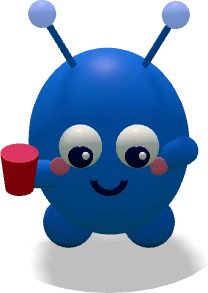
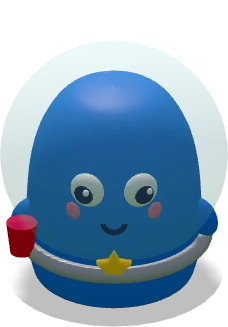
Aliens as a character collection: same silhouette, different costume each
Following the user's reference: every alien shares the same gumdrop body,
stubby feet and arms and a party cup, and each color is a different
character (antennae, astronaut, birthday, DJ, pirate, cyclops, king,
wizard). All are cropped with one common frame so bodies keep the same
size. Also fixes the upside-down smiles and makes the duel "VS" readable
on its light tile.

Claude-Session: https://claude.ai/code/session_01EHHKZnjyesYxRjuSqf66QR

diff --git a/scripts/board3d/scene.ts b/scripts/board3d/scene.ts
@@ -671,62 +671,287 @@ export function renderBoard(scale: number) {
   return r.domElement.toDataURL("image/png");
 }
 
-/** Marciano de fiesta: mismo estilo, misma luz y misma cámara que el tablero. */
-function alien(color: string) {
+// --- Marcianos ------------------------------------------------------------------------
+// Todos comparten la misma silueta (cuerpo de gominola: ancho abajo, redondo arriba, patitas
+// y bracitos cortos) y su vaso de fiesta; cada uno se distingue por su "disfraz", como una
+// colección de muñecos. Se construyen mirando a +z y luego se giran hacia la cámara.
+
+/** Perfil del cuerpo (radio, altura) para el torno. */
+const BODY_PROFILE = new THREE.SplineCurve(
+  [[0, 0], [0.28, 0], [0.34, 0.06], [0.36, 0.24], [0.35, 0.5], [0.3, 0.7], [0.19, 0.85], [0, 0.89]].map(([x, y]) => new THREE.Vector2(x, y)),
+).getPoints(48);
+// alturas de la cara y de la coronilla (los accesorios se colocan respecto a ellas)
+const EYE_Y = 0.57;
+const MOUTH_Y = 0.44;
+const TOP = 0.89;
+
+/** Radio del cuerpo a la altura y (para pegar ojos, boca y accesorios a la superficie). */
+function bodyR(y: number) {
+  for (let i = 1; i < BODY_PROFILE.length; i++) {
+    const a = BODY_PROFILE[i - 1];
+    const b = BODY_PROFILE[i];
+    if ((a.y <= y && y <= b.y) || (b.y <= y && y <= a.y)) {
+      const t = b.y === a.y ? 0 : (y - a.y) / (b.y - a.y);
+      return a.x + (b.x - a.x) * t;
+    }
+  }
+  return 0;
+}
+
+/** Punto de la superficie delantera a la altura y, desplazado `side` hacia un lado. */
+function onFront(y: number, side = 0, out = 0) {
+  const r = bodyR(y);
+  const z = Math.sqrt(Math.max(r * r - side * side, 0));
+  return new THREE.Vector3(side, y, z + out);
+}
+
+/** Pega un objeto a la superficie delantera, orientado hacia fuera. */
+function stick(o: THREE.Object3D, y: number, side = 0, out = 0) {
+  const p = onFront(y, side, out);
+  o.position.copy(p);
+  o.lookAt(p.clone().add(new THREE.Vector3(side * 1.4, 0, p.z).normalize()));
+  return o;
+}
+
+type Look = "antenas" | "astronauta" | "cumple" | "dj" | "pirata" | "ciclope" | "rey" | "mago";
+const LOOKS: Look[] = ["antenas", "astronauta", "cumple", "dj", "pirata", "ciclope", "rey", "mago"];
+const INK = "#1b1f4b";
+
+function eye(size = 0.075) {
+  const g = new THREE.Group();
+  const white = sphere(size, mat("#ffffff", { roughness: 0.15 }), 0, 0, 0, 24);
+  white.scale.z = 0.6;
+  const pupil = sphere(size * 0.6, mat(INK, { roughness: 0.15 }), 0, -size * 0.05, size * 0.38, 20);
+  pupil.scale.z = 0.6;
+  const shine = sphere(size * 0.2, mat("#ffffff", { roughness: 0.1 }), size * 0.22, size * 0.18, size * 0.62, 10);
+  g.add(white, pupil, shine);
+  return g;
+}
+
+function smile(open = false) {
+  if (open) {
+    const g = new THREE.Group();
+    const m = sphere(0.05, mat("#3a1030", { roughness: 0.6 }), 0, 0, 0, 16);
+    m.scale.set(1.2, 0.8, 0.35);
+    const tongue = sphere(0.025, mat("#ff6f8e"), 0, -0.018, 0.012, 12);
+    tongue.scale.z = 0.4;
+    g.add(m, tongue);
+    return g;
+  }
+  // el arco va dentro de un grupo: stick() reorienta el grupo y el arco sigue boca arriba (sonrisa)
+  const g = new THREE.Group();
+  const m = mesh(new THREE.TorusGeometry(0.045, 0.012, 8, 20, Math.PI), mat(INK));
+  m.rotation.z = Math.PI;
+  g.add(m);
+  return g;
+}
+
+function cheeks(g: THREE.Group, y = MOUTH_Y + 0.03) {
+  for (const s of [-1, 1]) {
+    const c = sphere(0.038, mat("#ff8fb0", { roughness: 0.7 }), 0, 0, 0, 12);
+    c.scale.z = 0.3;
+    g.add(stick(c, y, s * 0.17, -0.004));
+  }
+}
+
+function star(r: number, color: string, depth = 0.03) {
+  const sh = new THREE.Shape();
+  for (let k = 0; k < 10; k++) {
+    const rr = k % 2 ? r * 0.45 : r;
+    const a = (Math.PI / 5) * k + Math.PI / 2;
+    if (k === 0) sh.moveTo(rr * Math.cos(a), rr * Math.sin(a));
+    else sh.lineTo(rr * Math.cos(a), rr * Math.sin(a));
+  }
+  return mesh(new THREE.ExtrudeGeometry(sh, { depth, bevelEnabled: true, bevelSize: depth * 0.4, bevelThickness: depth * 0.4, bevelSegments: 2 }), mat(color, { roughness: 0.4 }));
+}
+
+function stripedTexture(a: string, b: string) {
+  const cv = document.createElement("canvas");
+  cv.width = 64;
+  cv.height = 64;
+  const c = cv.getContext("2d")!;
+  for (let i = 0; i < 8; i++) {
+    c.fillStyle = i % 2 ? a : b;
+    c.fillRect(0, i * 8, 64, 8);
+  }
+  const t = new THREE.CanvasTexture(cv);
+  t.colorSpace = THREE.SRGBColorSpace;
+  return t;
+}
+
+function alien(color: string, look: Look) {
   const g = new THREE.Group();
   const skin = mat(color, { roughness: 0.5 });
-  const dark = mat("#" + lighten(color, -0.25).getHexString(), { roughness: 0.6 });
-  const body = mesh(new THREE.SphereGeometry(0.32, 40, 30), skin, 0, 0.42, 0);
-  body.scale.set(1, 1.18, 0.95);
-  g.add(body);
-  // pies y brazos
-  g.add(sphere(0.1, dark, 0.1, 0.05, -0.12), sphere(0.1, dark, -0.12, 0.05, 0.1));
-  // un brazo saludando (lado +x) y el otro con el vaso de fiesta (lado +z, a la izquierda en pantalla)
-  const wave = mesh(new THREE.CapsuleGeometry(0.055, 0.16, 8, 16), skin, 0.33, 0.48, -0.02);
-  wave.rotation.z = -0.9;
-  const hold = mesh(new THREE.CapsuleGeometry(0.055, 0.14, 8, 16), skin, -0.02, 0.4, 0.33);
-  hold.rotation.x = 1.2;
-  g.add(wave, hold);
-  const cup = mesh(new THREE.CylinderGeometry(0.075, 0.055, 0.16, 20), mat("#e8343f", { roughness: 0.45 }), -0.02, 0.47, 0.47);
-  const drink = mesh(new THREE.CircleGeometry(0.07, 20), glow(C.calimocho, 0.3), -0.02, 0.552, 0.47);
+  const dark = mat("#" + lighten(color, -0.3).getHexString(), { roughness: 0.6 });
+  const pale = "#" + lighten(color, 0.35).getHexString();
+
+  // cuerpo, patitas y bracitos (iguales para todos)
+  g.add(mesh(new THREE.LatheGeometry(BODY_PROFILE, 64), skin));
+  for (const s of [-1, 1]) {
+    const foot = sphere(0.085, dark, s * 0.15, 0.03, 0.12, 20);
+    foot.scale.set(1, 0.55, 1.25);
+    g.add(foot);
+  }
+  // bracitos cortos a los lados (como muñones); el izquierdo sujeta el vaso
+  for (const s of [-1, 1]) {
+    const arm = sphere(0.075, skin, s * 0.36, 0.3, 0.06, 20);
+    arm.scale.set(0.8, 1.25, 0.8);
+    arm.rotation.z = s * 0.5;
+    g.add(arm);
+  }
+  // el vaso de fiesta, en la mano izquierda
+  const cup = mesh(new THREE.CylinderGeometry(0.065, 0.048, 0.14, 20), mat("#e8343f", { roughness: 0.45 }), -0.38, 0.27, 0.18);
+  const drink = mesh(new THREE.CircleGeometry(0.061, 20), glow(C.calimocho, 0.3), -0.38, 0.341, 0.18);
   drink.rotation.x = -Math.PI / 2;
   g.add(cup, drink);
-  // antenas: palito y bola juntos, abiertas hacia los lados
-  for (const s of [-1, 1]) {
-    const ant = new THREE.Group();
-    ant.add(cyl(0.014, 0.014, 0.26, dark, 0, 0, 0, 8), sphere(0.055, glow("#" + lighten(color, 0.3).getHexString(), 0.4), 0, 0.28, 0, 16));
-    ant.position.set(s * 0.09, 0.74, -s * 0.09);
-    ant.rotation.set(-s * 0.35, 0, -s * 0.35);
-    g.add(ant);
+
+  // cara por defecto: dos ojos, mofletes y sonrisa
+  const face = (eyes = true, mouthOpen = false) => {
+    if (eyes) for (const s of [-1, 1]) g.add(stick(eye(), EYE_Y, s * 0.11, -0.01));
+    cheeks(g);
+    g.add(stick(smile(mouthOpen), MOUTH_Y, 0, 0.002));
+  };
+
+  switch (look) {
+    case "antenas":
+      face();
+      for (const s of [-1, 1]) {
+        const ant = new THREE.Group();
+        ant.add(cyl(0.014, 0.014, 0.24, dark, 0, 0, 0, 8), sphere(0.05, glow(pale, 0.5), 0, 0.26, 0, 16));
+        ant.position.set(s * 0.08, TOP - 0.06, 0);
+        ant.rotation.z = -s * 0.4;
+        g.add(ant);
+      }
+      break;
+    case "astronauta": {
+      face();
+      const helmet = mesh(new THREE.SphereGeometry(0.47, 40, 30), mat("#bff4ff", { roughness: 0.05, transparent: true, opacity: 0.28, depthWrite: false }), 0, 0.56, 0);
+      g.add(helmet);
+      const collar = mesh(new THREE.TorusGeometry(0.375, 0.035, 12, 40), mat("#e9ecf6", { roughness: 0.3, metalness: 0.4 }), 0, 0.2, 0);
+      collar.rotation.x = Math.PI / 2;
+      g.add(collar);
+      g.add(stick(star(0.06, C.gold), 0.24, 0, 0.0));
+      break;
+    }
+    case "cumple": {
+      face(true, true);
+      const hat = mesh(new THREE.ConeGeometry(0.15, 0.36, 24), mat("#ffffff", { map: stripedTexture("#ffd84a", "#3fc2ff"), roughness: 0.5 }), 0.03, TOP + 0.12, -0.02);
+      hat.rotation.z = -0.2;
+      g.add(hat, sphere(0.05, mat("#ff5fa2"), -0.01, TOP + 0.3, -0.02, 16));
+      const confetti = ["#ffd84a", "#3fc2ff", "#9dff6a", "#ffffff"];
+      [[0.28, -0.2], [0.2, 0.22], [0.66, -0.24], [0.7, 0.2], [0.14, 0.05]].forEach(([y, sd], k) => {
+        const c = sphere(0.02, mat(confetti[k % 4]), 0, 0, 0, 8);
+        c.scale.z = 0.3;
+        g.add(stick(c, y, sd, -0.002));
+      });
+      break;
+    }
+    case "dj": {
+      // gafas de sol en vez de ojos
+      for (const s of [-1, 1]) {
+        const lens = mesh(new RoundedBoxGeometry(0.15, 0.09, 0.03, 3, 0.03), mat(INK, { roughness: 0.15, metalness: 0.3 }));
+        g.add(stick(lens, EYE_Y, s * 0.09, 0.012));
+      }
+      g.add(stick(mesh(new THREE.BoxGeometry(0.06, 0.015, 0.015), mat(INK)), EYE_Y + 0.01, 0, 0.02));
+      cheeks(g);
+      g.add(stick(smile(true), MOUTH_Y - 0.01, 0, 0.002));
+      const band = mesh(new THREE.TorusGeometry(0.33, 0.025, 10, 40, Math.PI), mat("#2b2d3a", { roughness: 0.4 }), 0, 0.6, 0);
+      g.add(band);
+      for (const s of [-1, 1]) {
+        const cupEar = mesh(new THREE.CylinderGeometry(0.09, 0.09, 0.07, 24), mat("#ff4f8b", { roughness: 0.4 }), s * 0.34, 0.6, 0);
+        cupEar.rotation.z = Math.PI / 2;
+        g.add(cupEar);
+      }
+      break;
+    }
+    case "pirata": {
+      g.add(stick(eye(), EYE_Y, -0.11, -0.01));
+      const patch = sphere(0.07, mat(INK, { roughness: 0.5 }), 0, 0, 0, 16);
+      patch.scale.z = 0.35;
+      g.add(stick(patch, EYE_Y + 0.01, 0.11, 0.0));
+      const strap = mesh(new THREE.TorusGeometry(0.33, 0.01, 6, 48), mat(INK), 0, 0.62, 0);
+      strap.rotation.set(Math.PI / 2 - 0.25, 0, 0);
+      g.add(strap);
+      cheeks(g);
+      g.add(stick(smile(), MOUTH_Y, 0, 0.002));
+      const bandana = mesh(new THREE.SphereGeometry(0.33, 32, 16, 0, Math.PI * 2, 0, Math.PI / 2.2), mat("#2a3c9a", { roughness: 0.6 }), 0, 0.6, -0.005);
+      bandana.scale.set(1.06, 0.95, 1.06);
+      g.add(bandana);
+      for (const k of [0.4, -0.3]) g.add(sphere(0.02, mat("#ffffff"), Math.sin(k) * 0.3, 0.76, Math.cos(k) * 0.22, 8));
+      const knot = sphere(0.06, mat("#2a3c9a"), -0.12, 0.7, -0.29, 16);
+      g.add(knot);
+      const ring = mesh(new THREE.TorusGeometry(0.035, 0.01, 8, 20), mat(C.gold, { metalness: 0.8, roughness: 0.3 }), 0.35, 0.5, 0.06);
+      g.add(ring);
+      break;
+    }
+    case "ciclope": {
+      g.add(stick(eye(0.12), EYE_Y, 0, -0.02));
+      cheeks(g, MOUTH_Y - 0.01);
+      g.add(stick(smile(true), MOUTH_Y - 0.04, 0, 0.002));
+      for (const s of [-1, 1]) {
+        const horn = mesh(new THREE.ConeGeometry(0.045, 0.14, 16), mat("#fff4e0", { roughness: 0.5 }), s * 0.14, TOP - 0.04, 0);
+        horn.rotation.z = -s * 0.35;
+        g.add(horn);
+      }
+      break;
+    }
+    case "rey": {
+      face();
+      const crown = new THREE.Group();
+      const gold = mat(C.gold, { metalness: 0.7, roughness: 0.3 });
+      crown.add(mesh(new THREE.CylinderGeometry(0.17, 0.18, 0.08, 32, 1, true), new THREE.MeshStandardMaterial({ color: C.gold, metalness: 0.7, roughness: 0.3, side: THREE.DoubleSide }), 0, 0.04, 0));
+      for (let k = 0; k < 6; k++) {
+        const a = (k / 6) * Math.PI * 2;
+        crown.add(mesh(new THREE.ConeGeometry(0.035, 0.08, 4), gold, Math.cos(a) * 0.17, 0.12, Math.sin(a) * 0.17));
+        crown.add(sphere(0.018, glow(["#ff4f8b", "#6ff0ff", "#9dff6a"][k % 3], 0.4), Math.cos(a) * 0.175, 0.05, Math.sin(a) * 0.175, 8));
+      }
+      crown.position.y = TOP - 0.08;
+      crown.rotation.z = 0.12;
+      g.add(crown);
+      // pajarita
+      const bow = new THREE.Group();
+      for (const s of [-1, 1]) {
+        const w = mesh(new THREE.ConeGeometry(0.05, 0.09, 4), mat("#c2185b"), s * 0.045, 0, 0);
+        w.rotation.z = (s * Math.PI) / 2;
+        bow.add(w);
+      }
+      bow.add(sphere(0.022, mat("#c2185b"), 0, 0, 0.01, 10));
+      g.add(stick(bow, 0.24, 0, 0.01));
+      break;
+    }
+    case "mago": {
+      for (const s of [-1, 1]) g.add(stick(eye(0.065), EYE_Y, s * 0.1, -0.01));
+      cheeks(g, MOUTH_Y + 0.06);
+      // barba blanca
+      [[0.42, 0, 0.07], [0.37, -0.07, 0.055], [0.37, 0.07, 0.055], [0.3, 0, 0.06]].forEach(([y, sd, r]) => {
+        const b = sphere(r, mat("#f4f1ff", { roughness: 0.9 }), 0, 0, 0, 16);
+        g.add(stick(b, y, sd, -0.02));
+      });
+      const hat = mesh(new THREE.ConeGeometry(0.28, 0.5, 32), mat("#3b2a8f", { roughness: 0.6 }), 0, TOP + 0.17, -0.02);
+      hat.rotation.set(-0.15, 0, -0.18);
+      const brim = mesh(new THREE.CylinderGeometry(0.36, 0.36, 0.03, 40), mat("#3b2a8f", { roughness: 0.6 }), 0, TOP - 0.08, 0);
+      g.add(hat, brim);
+      [[0.95, 0.12, 0.2], [1.09, -0.05, 0.12], [0.87, -0.15, 0.24]].forEach(([y, x, z]) => {
+        const st = star(0.035, C.gold, 0.01);
+        st.position.set(x, y, z);
+        st.lookAt(x * 3, y, 2);
+        g.add(st);
+      });
+      break;
+    }
   }
-  // cara (mira a la cámara, que está en +x +z)
-  const face = new THREE.Group();
-  const white = mat("#ffffff", { roughness: 0.2 });
-  const black = mat("#1b1f4b", { roughness: 0.2 });
-  for (const s of [-1, 1]) {
-    face.add(sphere(0.085, white, s * 0.11, 0.06, 0, 24));
-    face.add(sphere(0.05, black, s * 0.11, 0.055, 0.06, 20));
-    face.add(sphere(0.016, white, s * 0.11 + 0.02, 0.075, 0.1, 8));
-    const cheek = sphere(0.04, mat("#ff8fb0", { roughness: 0.6 }), s * 0.19, -0.04, -0.02, 12);
-    cheek.scale.z = 0.4;
-    face.add(cheek);
-  }
-  const smile = mesh(new THREE.TorusGeometry(0.06, 0.014, 8, 20, Math.PI), black, 0, -0.07, 0.03);
-  smile.rotation.z = Math.PI;
-  face.add(smile);
-  face.position.set(0.22, 0.5, 0.22);
-  face.lookAt(5, 0.5, 5);
-  face.position.set(0.2, 0.5, 0.2);
-  g.add(face);
-  return shadowed(g);
+  g.rotation.y = Math.PI / 4; // de frente a la cámara (que mira desde +x +z)
+  const out = new THREE.Group();
+  out.add(g);
+  return shadowed(out);
 }
 
 /** Un PNG por color de jugador, con la misma cámara que el tablero. */
 export function renderAliens(px: number) {
   const out: string[] = [];
-  for (const color of PLAYER_COLORS) {
+  for (const [i, color] of PLAYER_COLORS.entries()) {
     const scene = new THREE.Scene();
-    scene.add(alien(color));
+    scene.add(alien(color, LOOKS[i % LOOKS.length]));
     lights(scene, new THREE.Vector3(0, 0, 0), 1024);
     // sombra suave en el suelo, que se ve en la ficha
     const ground = mesh(new THREE.CircleGeometry(0.45, 32), new THREE.ShadowMaterial({ opacity: 0.25 }));
@@ -734,7 +959,7 @@ export function renderAliens(px: number) {
     ground.receiveShadow = true;
     scene.add(ground);
     const r = renderer(px, Math.round(px * 1.2));
-    const half = 0.62 * K; // ancho de la vista en píxeles SVG
+    const half = 0.66 * K; // ancho de la vista en píxeles SVG
     r.render(scene, isoCamera(-half, -half * 1.7, half * 2, half * 2.4, new THREE.Vector3(0, 0, 0)));
     out.push(r.domElement.toDataURL("image/png"));
     r.dispose();

diff --git a/CLAUDE.md b/CLAUDE.md
@@ -23,9 +23,11 @@ léelo antes de implementar algo nuevo.
 - `/jugar`: sin TV, todo en una misma pantalla (partida guardada en localStorage).
 - El género resuelve solas las casillas Machos (2) y Hembras (11); el resto de casillas de
   "quién bebe" las marca el control.
-- Las fichas son marcianos de colores (`src/components/Marciano.tsx`, `defaultAvatar`).
-  Perfiles, disfraces, accesorios y votación por celular se quitaron a propósito
-  (decisión del usuario); no reintroducirlos sin que lo pida.
+- Las fichas son 8 marcianos fijos, uno por color de jugador, con **la misma silueta** (cuerpo de gominola, patitas,
+  bracitos y su vaso de fiesta) y un "disfraz" distinto cada uno, como una colección (referencia Astrodraws del
+  usuario): verde antenas, azul astronauta, rosa cumpleañero, amarillo DJ, rojo pirata, turquesa cíclope, naranja rey,
+  morado mago (`alien()`/`LOOKS` en `scripts/board3d/scene.ts`). No hay pantalla para personalizarlos: perfiles,
+  accesorios a elegir y votación por celular se quitaron a propósito; no reintroducirlos sin que lo pida.
 - El servidor es la autoridad: `src/server/rooms.ts` guarda la mesa, ejecuta el motor
   (dados incluidos) y solo acepta jugadas con la clave del control. API en `src/app/api/rooms/`.
   Los clientes consultan la mesa cada 1 s (`src/lib/room-client.ts`) y solo aceptan versiones nuevas.
